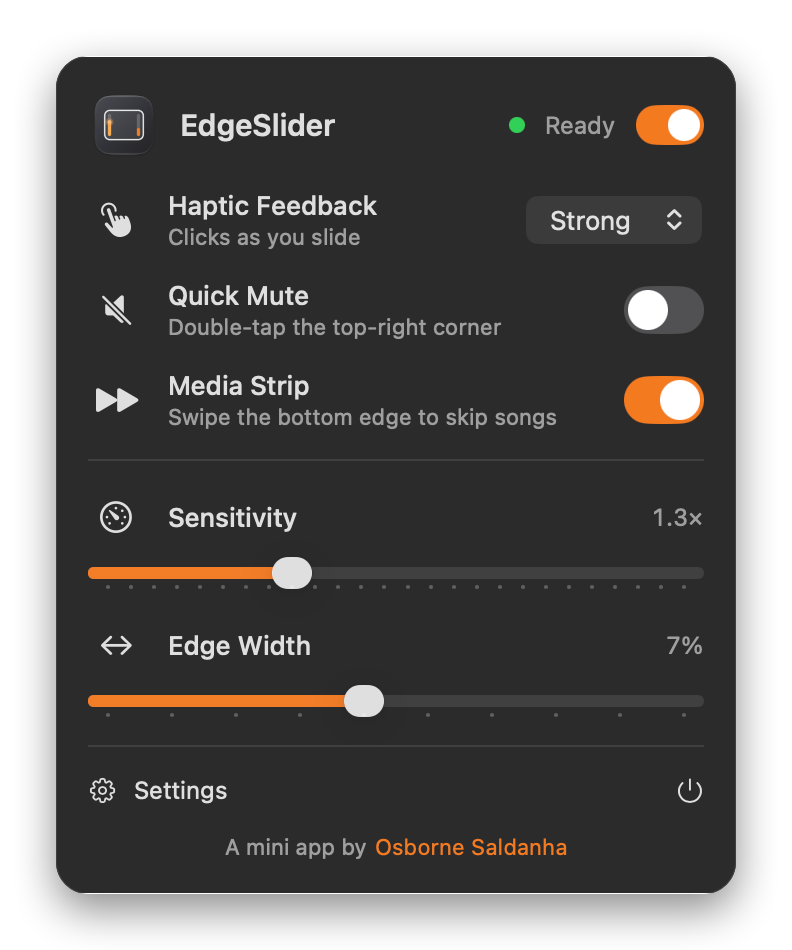
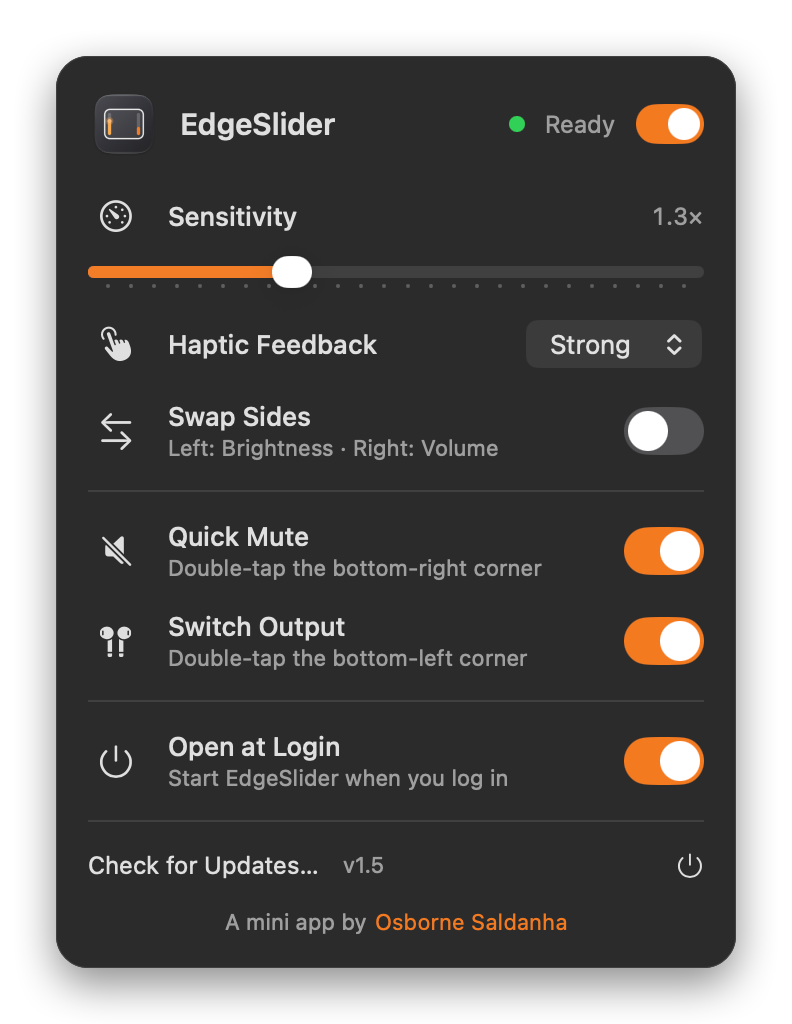
EdgeSlider 1.5: single-page panel, one running instance

diff --git a/Sources/EdgeSlider/SettingsView.swift b/Sources/EdgeSlider/SettingsView.swift
@@ -70,27 +70,19 @@ private struct SliderRow: View {
     }
 }
 
-private struct SectionTitle: View {
-    let text: String
-    var body: some View {
-        Text(text).font(.system(size: 11, weight: .semibold)).foregroundStyle(.secondary).padding(.top, 2)
-    }
-}
-
 struct PopoverRoot: View {
     @ObservedObject private var s = Settings.shared
     @ObservedObject private var updater = Updater.shared
-    @State private var page: Int
     @State private var loginOn = SMAppService.mainApp.status == .enabled
     @State private var loginNote: String?
 
-    init(page: Int = 0) { _page = State(initialValue: page) }
+    private var version: String { Bundle.main.infoDictionary?["CFBundleShortVersionString"] as? String ?? "" }
 
     var body: some View {
         VStack(alignment: .leading, spacing: 14) {
             header
             if let v = updater.availableVersion { updateBanner(v) }
-            if page == 0 { mainPage } else { settingsPage }
+            controls
             Divider()
             footer
             credit
@@ -108,7 +100,7 @@ struct PopoverRoot: View {
                 .resizable().interpolation(.high)
                 .frame(width: 36, height: 36)
                 .accessibilityHidden(true)
-            Text(page == 0 ? "EdgeSlider" : "Settings").font(.system(size: 15, weight: .semibold))
+            Text("EdgeSlider").font(.system(size: 15, weight: .semibold))
             Spacer()
             Circle().fill(s.enabled ? Color.green : Color.gray).frame(width: 8, height: 8)
             Text(s.enabled ? "Ready" : "Paused").font(.system(size: 12)).foregroundStyle(.secondary)
@@ -118,12 +110,8 @@ struct PopoverRoot: View {
 
     private var footer: some View {
         HStack {
-            if page == 0 {
-                Button { page = 1 } label: { Label("Settings", systemImage: "gearshape") }
-            } else {
-                Button { page = 0 } label: { Label("Back", systemImage: "chevron.left") }
-                Text("Version \(Bundle.main.infoDictionary?["CFBundleShortVersionString"] as? String ?? "1.1")").font(.system(size: 11)).foregroundStyle(.secondary).padding(.leading, 6)
-            }
+            Button("Check for Updates…") { updater.checkForUpdates() }
+            Text("v\(version)").font(.system(size: 11)).foregroundStyle(.secondary).padding(.leading, 4)
             Spacer()
             Button { NSApp.terminate(nil) } label: { Image(systemName: "power") }.help("Quit EdgeSlider")
         }
@@ -155,93 +143,34 @@ struct PopoverRoot: View {
         .background(RoundedRectangle(cornerRadius: 10).fill(Color.accentOrange.opacity(0.14)))
     }
 
-    // MARK: pages
+    // MARK: controls
 
-    private var mainPage: some View {
+    private var controls: some View {
         VStack(alignment: .leading, spacing: 14) {
+            SliderRow(icon: "gauge.with.dots.needle.33percent", title: "Sensitivity",
+                      valueText: String(format: "%.1f×", s.sensitivity),
+                      value: Binding(get: { Double(s.sensitivity) }, set: { s.sensitivity = Float($0) }),
+                      range: 0.5...3.0, step: 0.1)
             HStack(spacing: 12) {
                 Badge(symbol: "hand.tap.fill")
-                VStack(alignment: .leading, spacing: 1) {
-                    Text("Haptic Feedback").font(.system(size: 13, weight: .medium))
-                    Text("Clicks as you slide").font(.system(size: 11)).foregroundStyle(.secondary)
-                }
+                Text("Haptic Feedback").font(.system(size: 13, weight: .medium))
                 Spacer()
                 Picker("", selection: $s.haptic) {
                     ForEach(Haptic.allCases) { Text($0.label).tag($0) }
                 }.labelsHidden().pickerStyle(.menu).frame(width: 90)
             }
+            ToggleRow(icon: "arrow.left.arrow.right", title: "Swap Sides",
+                      subtitle: s.swapSides ? "Left: Volume · Right: Brightness" : "Left: Brightness · Right: Volume",
+                      isOn: $s.swapSides)
+            Divider()
             ToggleRow(icon: "speaker.slash.fill", title: "Quick Mute",
                       subtitle: "Double-tap the \(s.cornerEdge.word)-right corner", isOn: $s.quickMute)
             ToggleRow(icon: "airpods", title: "Switch Output",
                       subtitle: "Double-tap the \(s.cornerEdge.word)-left corner", isOn: $s.switchOutput)
             Divider()
-            SliderRow(icon: "gauge.with.dots.needle.33percent", title: "Sensitivity",
-                      valueText: String(format: "%.1f×", s.sensitivity),
-                      value: Binding(get: { Double(s.sensitivity) }, set: { s.sensitivity = Float($0) }),
-                      range: 0.5...3.0, step: 0.1)
-            SliderRow(icon: "arrow.left.and.right", title: "Edge Width",
-                      valueText: "\(Int((s.edgeWidth * 100).rounded()))%",
-                      value: Binding(get: { Double(s.edgeWidth * 100) }, set: { s.edgeWidth = Float($0 / 100) }),
-                      range: 3...12, step: 1)
-        }
-    }
-
-    private var settingsPage: some View {
-        VStack(alignment: .leading, spacing: 14) {
-            SectionTitle(text: "Edge Gestures")
-            SliderRow(icon: "hand.raised.fill", title: "Hold Delay",
-                      valueText: s.holdDelay < 0.01 ? "Off" : "\(Int((s.holdDelay * 1000).rounded())) ms",
-                      value: Binding(get: { Double(s.holdDelay) }, set: { s.holdDelay = Float($0) }),
-                      range: 0...0.5, step: 0.05)
-            ToggleRow(icon: "arrow.left.arrow.right", title: "Swap Sides",
-                      subtitle: s.swapSides ? "Left: Volume · Right: Brightness" : "Left: Brightness · Right: Volume",
-                      isOn: $s.swapSides)
-            ToggleRow(icon: "rectangle.bottomhalf.filled", title: "Bottom Quarter Only",
-                      subtitle: "Ignore touches above the lower 25%", isOn: $s.bottomQuarterOnly)
-            Divider()
-            SectionTitle(text: "Corner Taps")
-            HStack(spacing: 12) {
-                Badge(symbol: "rectangle.inset.filled")
-                VStack(alignment: .leading, spacing: 1) {
-                    Text("Corner Position").font(.system(size: 13, weight: .medium))
-                    Text("Where Quick Mute and Switch Output listen").font(.system(size: 11)).foregroundStyle(.secondary)
-                }
-                Spacer()
-                Picker("", selection: $s.cornerEdge) {
-                    ForEach(CornerEdge.allCases) { Text($0.label).tag($0) }
-                }.labelsHidden().pickerStyle(.menu).frame(width: 90)
-            }
-            Divider()
-            SectionTitle(text: "Display")
-            ToggleRow(icon: "percent", title: "Show Percentage",
-                      subtitle: "Show the value on the slider pill", isOn: $s.showPercent)
-            Divider()
-            SectionTitle(text: "While Sliding")
-            ToggleRow(icon: "cursorarrow", title: "Freeze Cursor",
-                      subtitle: "Pointer stays put while sliding", isOn: $s.freezeCursor)
-            Divider()
-            SectionTitle(text: "General")
             ToggleRow(icon: "power", title: "Open at Login",
                       subtitle: loginNote ?? "Start EdgeSlider when you log in",
                       isOn: Binding(get: { loginOn }, set: setLogin))
-            Divider()
-            SectionTitle(text: "Updates")
-            ToggleRow(icon: "arrow.triangle.2.circlepath", title: "Check Automatically",
-                      subtitle: "Look for new versions daily",
-                      isOn: Binding(get: { updater.automaticChecks }, set: { updater.automaticChecks = $0 }))
-            Button { updater.checkForUpdates() } label: {
-                HStack(spacing: 12) {
-                    Badge(symbol: "arrow.down.circle")
-                    VStack(alignment: .leading, spacing: 1) {
-                        Text("Check for Updates…").font(.system(size: 13, weight: .medium))
-                        Text("You have version \(Bundle.main.infoDictionary?["CFBundleShortVersionString"] as? String ?? "")")
-                            .font(.system(size: 11)).foregroundStyle(.secondary)
-                    }
-                    Spacer()
-                }
-                .contentShape(Rectangle())
-            }
-            .buttonStyle(.plain)
         }
     }
 

diff --git a/Sources/EdgeSlider/Screenshots.swift b/Sources/EdgeSlider/Screenshots.swift
@@ -21,15 +21,14 @@ enum Screenshots {
     static func render(to dir: String) {
         try? FileManager.default.createDirectory(atPath: dir, withIntermediateDirectories: true)
         isRendering = true
-        write(panel(page: 0), to: "\(dir)/panel.png")
-        write(panel(page: 1), to: "\(dir)/settings.png")
+        write(panel(), to: "\(dir)/panel.png")
         write(hud(), to: "\(dir)/hud.png")
     }
 
     // MARK: panel (the real SwiftUI view, hosted offscreen so native controls draw)
 
-    private static func panel(page: Int) -> NSBitmapImageRep {
-        let host = NSHostingView(rootView: PopoverRoot(page: page)
+    private static func panel() -> NSBitmapImageRep {
+        let host = NSHostingView(rootView: PopoverRoot()
             .background(Color(white: 0.17))
             .environment(\.colorScheme, .dark)
             .environment(\.controlActiveState, .key))
@@ -53,7 +52,7 @@ enum Screenshots {
         // fall back to drawing the view into a bitmap if screencapture is unavailable.
         var rep = host.bitmapImageRepForCachingDisplay(in: host.bounds)!
         host.cacheDisplay(in: host.bounds, to: rep)
-        let tmp = NSTemporaryDirectory() + "edgeslider-panel-\(page).png"
+        let tmp = NSTemporaryDirectory() + "edgeslider-panel.png"
         let cap = Process()
         cap.executableURL = URL(fileURLWithPath: "/usr/sbin/screencapture")
         cap.arguments = ["-x", "-o", "-l", "\(win.windowNumber)", tmp]

diff --git a/Sources/EdgeSlider/main.swift b/Sources/EdgeSlider/main.swift
@@ -669,6 +669,14 @@ final class AppDelegate: NSObject, NSApplicationDelegate {
     func applicationWillTerminate(_ n: Notification) { controller.end() }
 }
 
+// one instance only: if another copy is already running, leave it alone and quit this one
+if !CommandLine.arguments.contains("--render-screenshots"),
+   let id = Bundle.main.bundleIdentifier,
+   NSRunningApplication.runningApplications(withBundleIdentifier: id)
+       .contains(where: { $0.processIdentifier != ProcessInfo.processInfo.processIdentifier }) {
+    exit(0)
+}
+
 let app = NSApplication.shared
 app.setActivationPolicy(.accessory)
 let delegate = AppDelegate()

diff --git a/README.md b/README.md
@@ -47,16 +47,12 @@ EdgeSlider keeps itself up to date: it checks for new versions daily and the men
 |---|---|
 | Slide along the **left edge** | Brightness (built-in display) |
 | Slide along the **right edge** | Volume |
-| Double-tap the **top-right corner** | Mute (off by default, see below). Can be moved to the bottom corners in Settings |
-| Double-tap the **top-left corner** | Switch the sound output to the next connected device (off by default, see below). Can be moved to the bottom corners in Settings |
+| Double-tap the **top-right corner** | Mute (off by default, see below). |
+| Double-tap the **top-left corner** | Switch the sound output to the next connected device (off by default, see below). |
 
 A touch only counts if it **lands on the edge** and then moves, so a stray fingertip or a normal swipe across the pad does nothing. Sliding is relative to the current level, so nothing jumps when you touch down.
 
-Everything is adjustable from the menu bar panel: haptic strength, sensitivity, how wide the edge zones are, swapping the two sides, limiting the sliders to the lower part of the pad, showing or hiding the percentage, freezing the pointer, and launch at login.
-
-<p align="center">
-  <img src="docs/images/settings.png" height="520" alt="The Settings page">
-</p>
+The menu bar panel keeps it simple: sensitivity, haptic strength, swapping the two sides, the two corner taps, and launch at login.
 
 ## Good to know
 

diff --git a/CHANGELOG.md b/CHANGELOG.md
@@ -2,6 +2,12 @@
 
 All notable changes to EdgeSlider are listed here. The format follows [Keep a Changelog](https://keepachangelog.com/).
 
+## [1.5] - 2026-11-04
+
+### Changed
+- The menu bar panel is a single page: Sensitivity, Haptic Feedback, Swap Sides, Quick Mute, Switch Output, Open at Login. Edge Width, Hold Delay, Bottom Quarter Only, Corner Position, Show Percentage, Freeze Cursor and the update toggle are no longer shown (they keep their defaults).
+- Only one instance of the app runs at a time.
+
 ## [1.4] - 2026-11-04
 
 ### Added

diff --git a/notes/1.5.md b/notes/1.5.md
@@ -1,0 +1,4 @@
+## EdgeSlider 1.5
+
+- Simpler menu bar panel: one page with Sensitivity, Haptic Feedback, Swap Sides, Quick Mute, Switch Output and Open at Login. The separate Settings page is gone.
+- Only one copy of EdgeSlider can run at a time. Opening it again no longer starts a second one.
